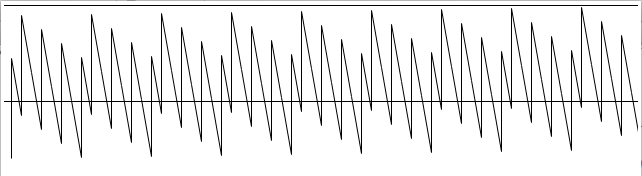
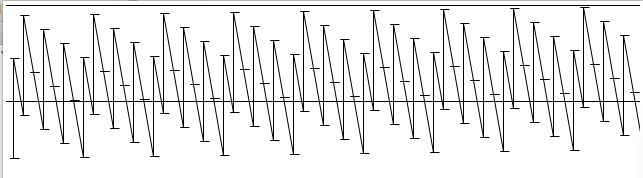
Improved visualisation of duty_counter by putting markers onto graph. This more clearly shows now how the algorithm is working

Changed region(s): [[0.0, 0.0, 1.0, 1.0]]

diff --git a/screen.py b/screen.py
@@ -72,9 +72,12 @@ class Screen():
         #self.canvas.create_line(midx, top, midx, bottom)
         #self.update()
 
-    def goto(self, x, y):
+    def goto_xy(self, x, y):
         self.x = x
         self.y = y
+
+    def get_xy(self):
+        return (self.x, self.y)
 
     def plot(self, x, y, fill=None):
         if fill is None: fill = self.ON
@@ -88,7 +91,7 @@ class Screen():
 
     def line_to(self, x, y):
         if self.x is None or self.y is None:
-            self.goto(x, y)
+            self.goto_xy(x, y)
         else:
             self.line(self.x, self.y, x, y)
             self.x = x

diff --git a/generic.py b/generic.py
@@ -57,13 +57,19 @@ def action(in_reason, in_count, in_value, out_reason, out_count, out_value):
 print("Ratio: %d:%d" % (duty_cycle, duty_master))
 
 def point(x, y):
-    screen.line_to(x*10, duty_master - y)
+    y = duty_master - y
+    x *= 10
+
+    screen.line_to(x, y)
+    screen.line_to(x-3, y)
+    screen.line_to(x+6, y)
+    screen.goto_xy(x, y)
 
 def draw_axies():
     LEN = 640
     screen.line(0, duty_master, LEN, duty_master) # actually the lower line
     screen.line(0, 4, LEN, 4) # actually the upper line
-    screen.goto(None, None)
+    screen.goto_xy(None, None)
 
 draw_axies()
 
